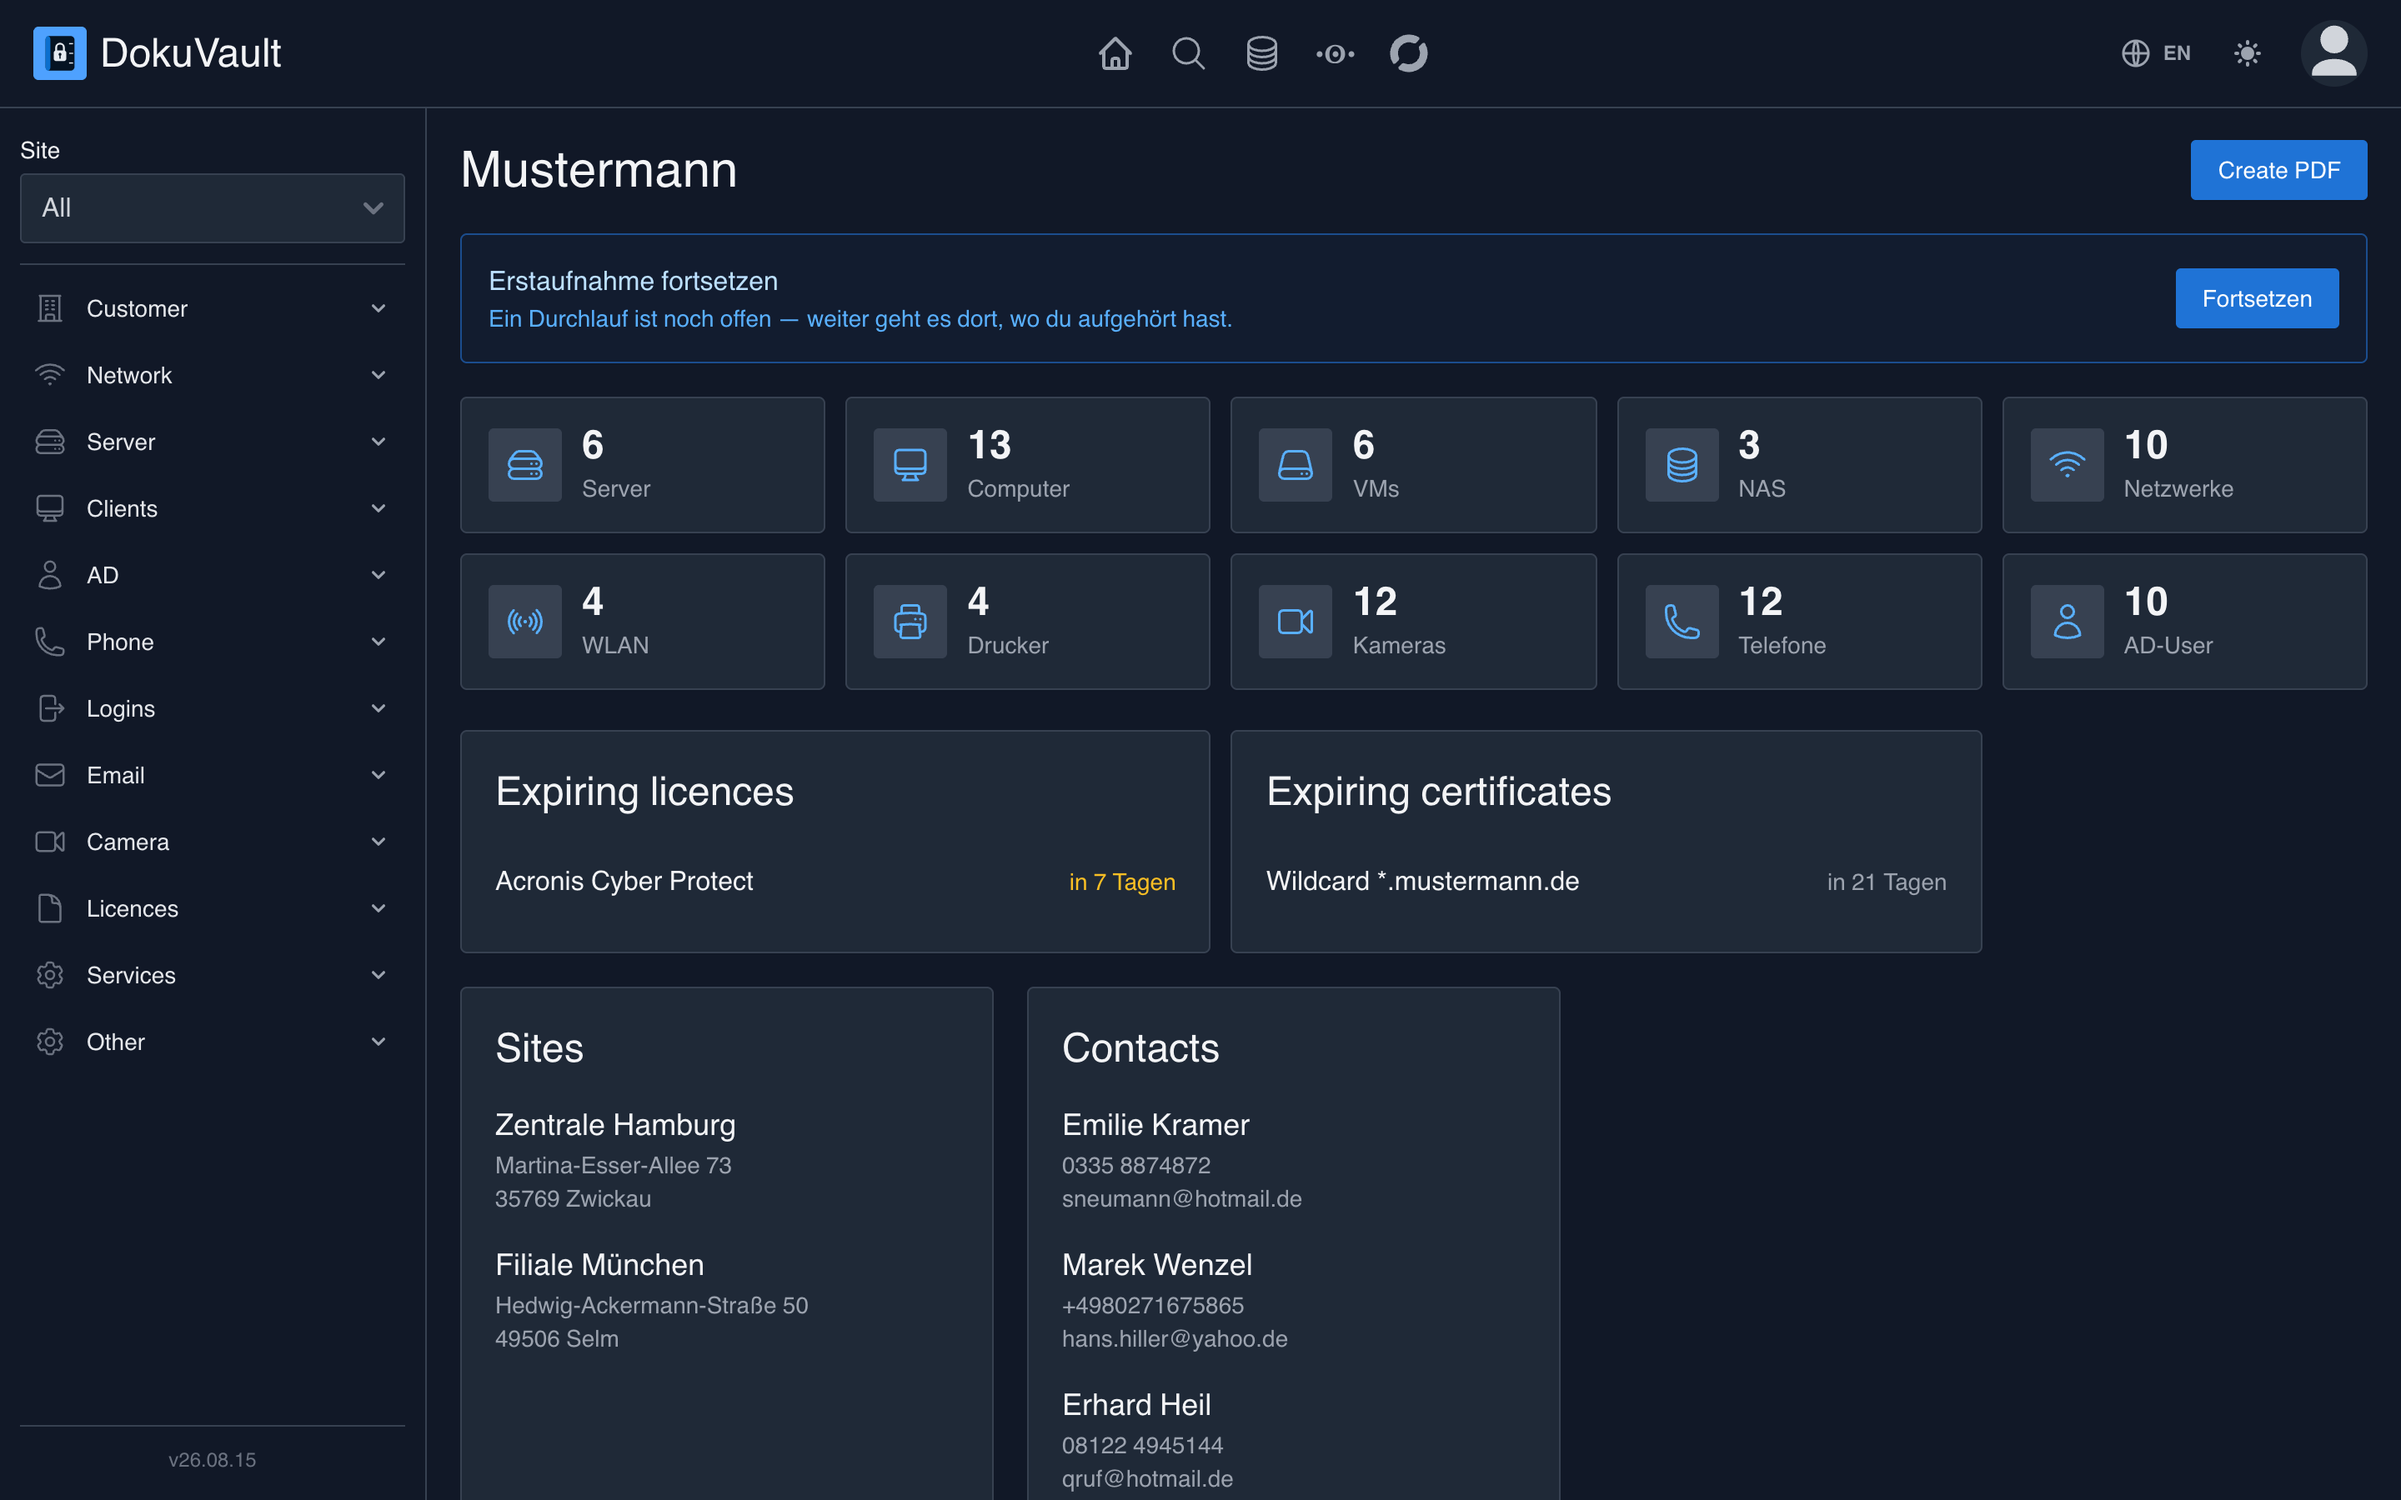
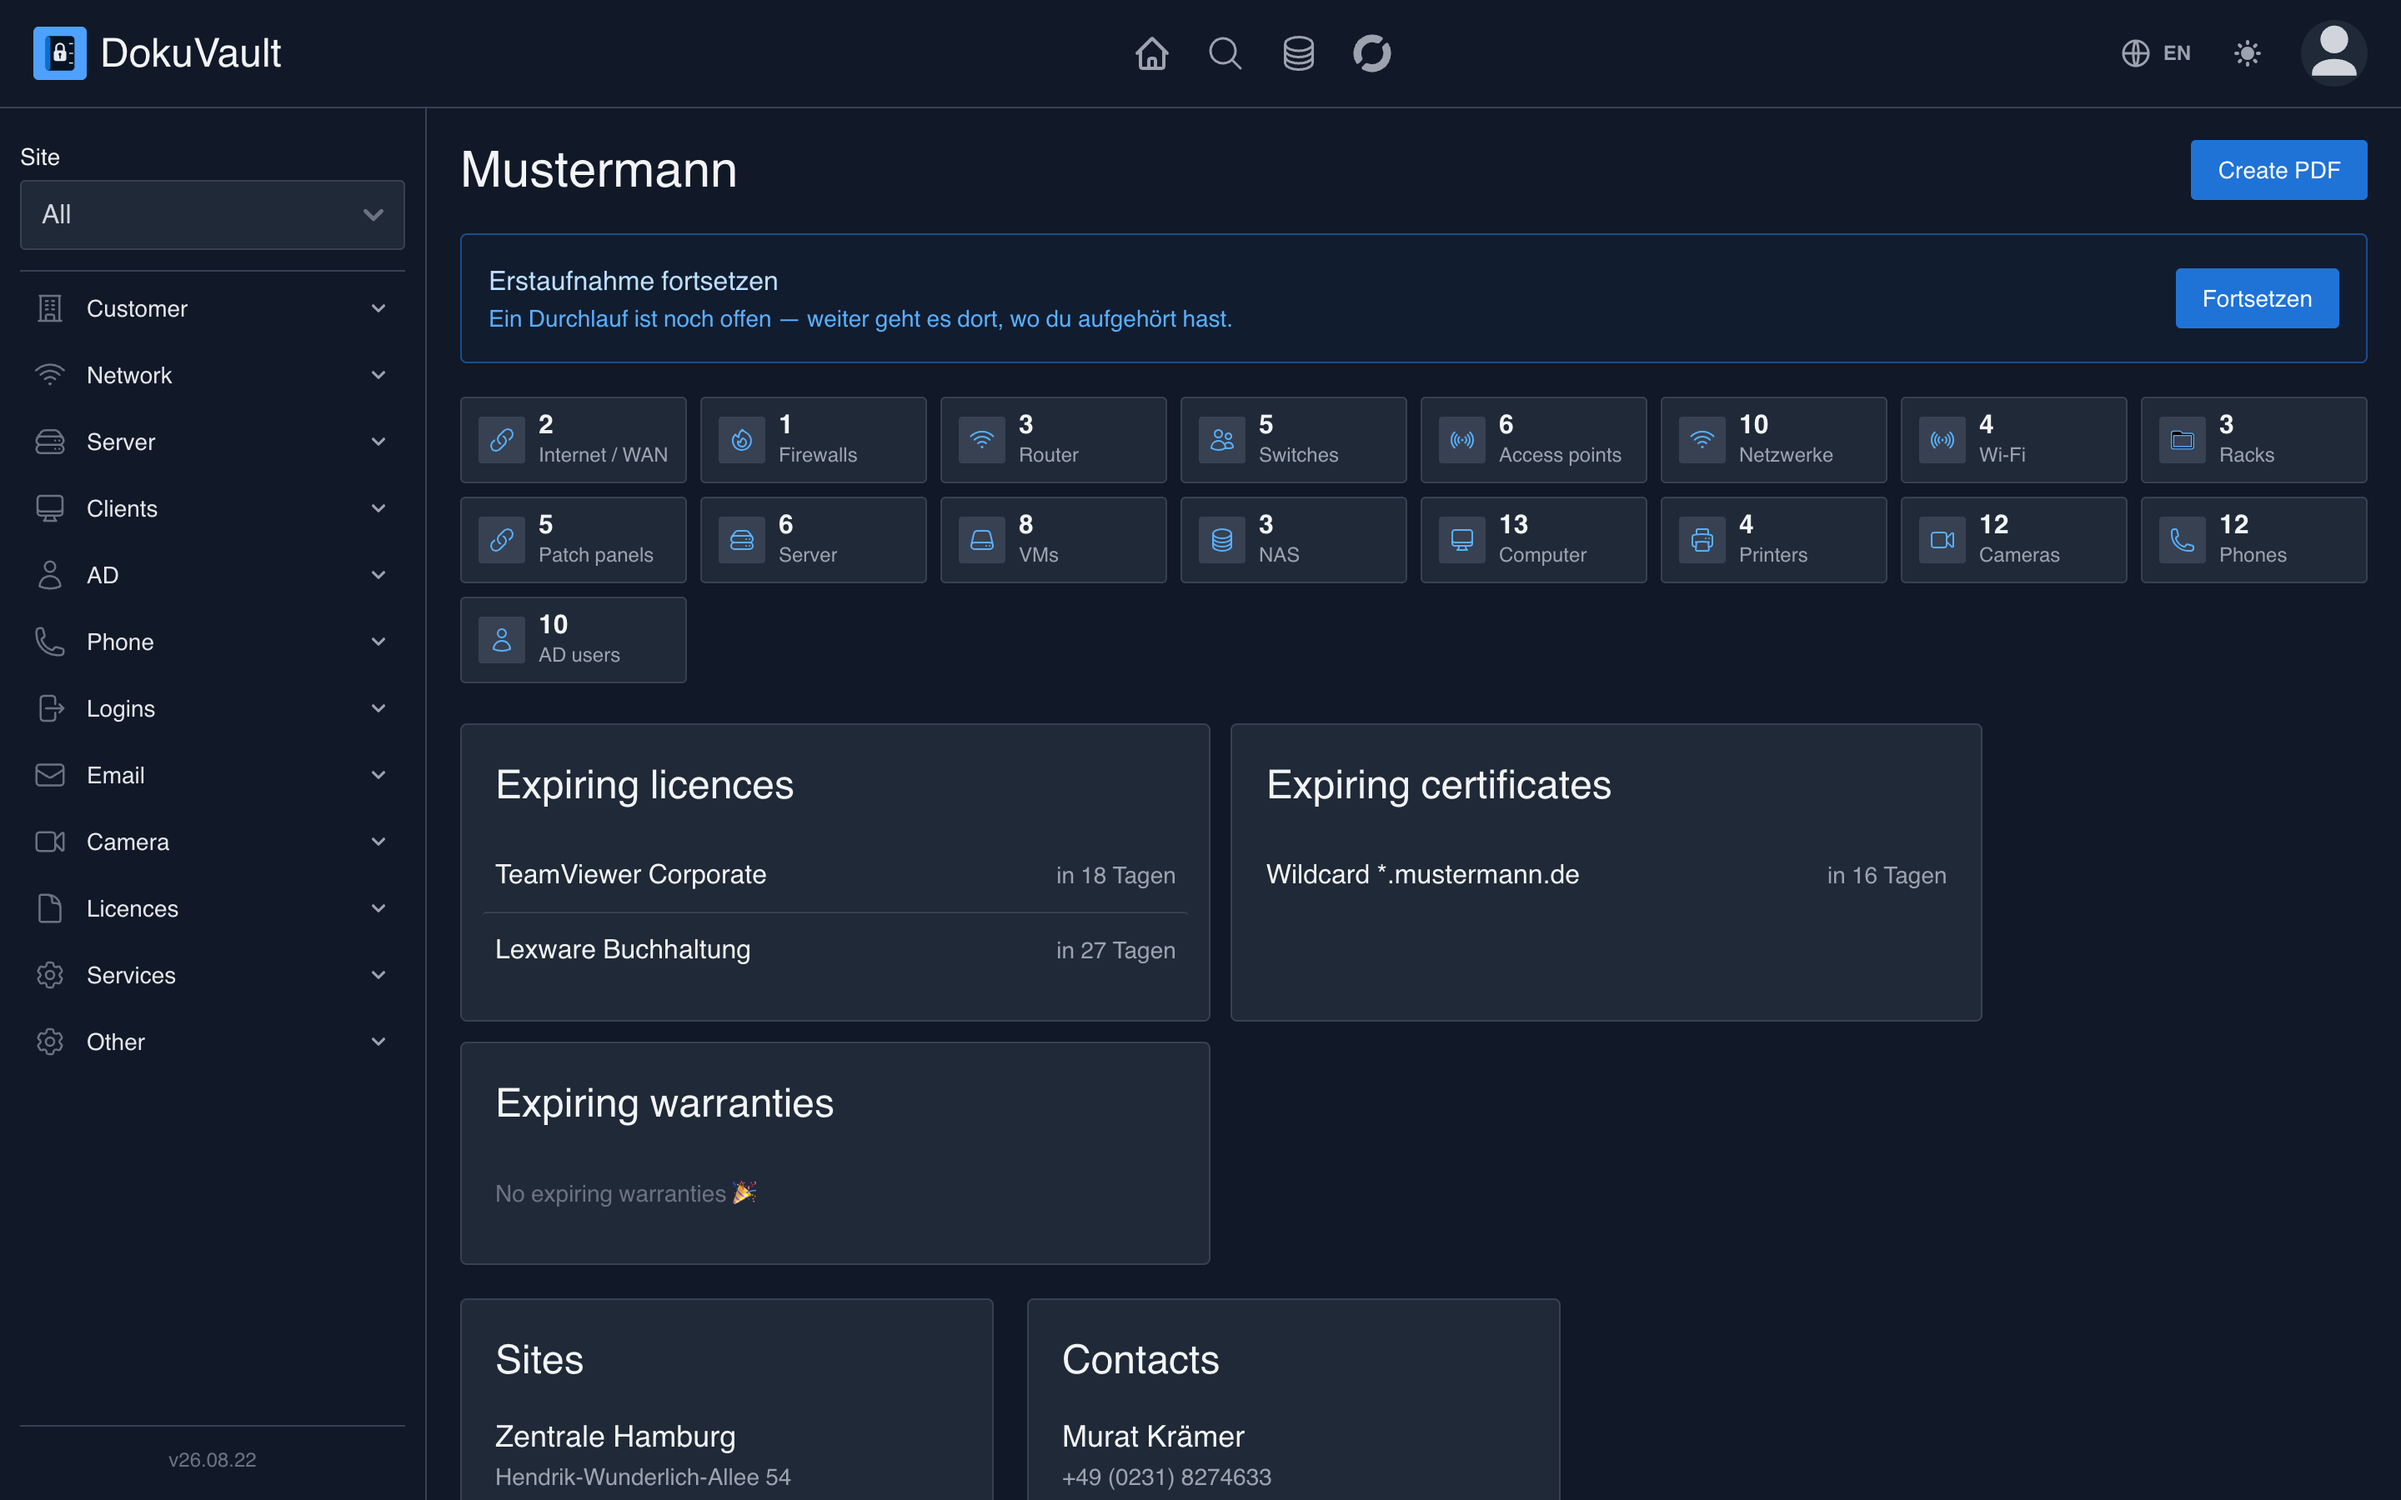
Screenshots aktualisiert, README-Zahlen und Rollentabelle nachgezogen
Das Screenshot-Skript (docs/screenshot-tool/capture.mjs) lag aus einer
frueheren Sitzung bereit, aber ungetestet. Zwei Fehler beim ersten Lauf:

Der Anmelden-Klick traf den falschen Knopf. page.click('button[type=submit]')
nahm den ersten Treffer im DOM - und das ist einer der versteckten
Sprachumschalter-Knoepfe (x-locale-switch), die vor dem Login-Formular im
Markup stehen, hinter "hidden" verborgen. Puppeteer meldete "Node is
either not clickable or not an Element". Auf das Anmeldeformular
eingegrenzt: form[action$="/login"] button[type=submit].

Der zweite Sprachdurchlauf fand kein Formular mehr. browser.newPage()
teilt sich Cookies mit allen Seiten desselben Browsers; der "de"-Lauf
blieb angemeldet, und /login leitet einen angemeldeten Benutzer ueber
die guest-Middleware weiter. Jetzt ein eigener isolierter Kontext je
Sprache (browser.createBrowserContext()).

Beim Durchsehen der Bilder ist ein Testrelikt aufgefallen: ein Server
namens "dsads" aus fruehem Debugging dieser Sitzung, sichtbar im
Rack-Editor-Screenshot. Weich geloescht (Papierkorb, wiederherstellbar),
danach alle 26 Bilder neu erzeugt - sonst waeren die Server-Zaehler auf
dem Dashboard und im Rack-Editor auseinandergelaufen (7 vs. 6).

Beim Lesen der README zwei veraltete Stellen gefunden und mit dem Nutzer
abgestimmt:

Die Testzahl stand auf 267, der aktuelle Lauf zeigt 609 - drei Stellen je
Sprachversion (Badge, Tabelle, Fliesstext).
[…]

diff --git a/README.md b/README.md
@@ -15,7 +15,7 @@ PDF export, global search across every customer, and devices that
 ![PHP](https://img.shields.io/badge/PHP-8.2+-777BB4?logo=php&logoColor=white)
 ![Laravel](https://img.shields.io/badge/Laravel-12-FF2D20?logo=laravel&logoColor=white)
 ![Livewire](https://img.shields.io/badge/Livewire-4-FB70A9)
-![Tests](https://img.shields.io/badge/Tests-267%20passing-3fb950)
+![Tests](https://img.shields.io/badge/Tests-609%20passing-3fb950)
 ![License](https://img.shields.io/badge/License-MIT-blue)
 
 **[▶ Try the live demo](https://doku.dokuvault.de)**
@@ -162,9 +162,16 @@ Every token may **only document** — a leaked one grants no further access. Mor
 - **Devices** — cameras, recorders, printers
 - **Services** — FTP, DynDNS, domains, backups
 - **Licences** — software, Windows and access licences including expiry dates & file upload
-- **Credentials** — encrypted logins, show and copy passwords
-- **Data capture** — initial survey wizard (16 guided steps), auto-documentation via agent
-- **Operations** — global search, audit log, recycle bin (restore), PDF export, file storage
+- **Credentials** — encrypted logins, show and copy passwords, previous password stays available
+  for a configurable retention period — for when someone changed it by mistake
+- **Data capture** — initial survey wizard (16 guided steps), auto-documentation via agent, agent
+  tokens managed on their own page (create, one-time reveal, revoke)
+- **Operations** — global search, searchable & filterable activity log (event, object type, user,
+  time range), recycle bin (restore, plus an admin-wide view across every customer), PDF export,
+  file storage
+- **Admin area** — permission-based, not role-hardcoded: customers, users & roles, dropdowns,
+  settings, recycle bin, activity log and API tokens are separate permissions, freely combinable
+  per role
 - **Site filter** — narrows device lists, IPAM and auto-documentation to a single site
 - **Language** — German and English, per user or following the browser
 
@@ -174,7 +181,9 @@ Every token may **only document** — a leaked one grants no further access. Mor
 
 - Passwords and sensitive fields **encrypted at rest** (`Crypt`)
 - **Role-based** access (admin / technician / customer) with granular permissions
-- **Audit log** of every change (without plain-text passwords)
+- **Audit log** of every change; a changed password never appears in the log itself — the previous
+  value lives encrypted in its own table, revealed only on click and only to those who can already
+  see the device
 - Protection against **IDOR** (foreign customer/site assignment), XSS hardening, encrypted sessions
 - Responsible disclosure via [SECURITY.md](SECURITY.md)
 
@@ -211,7 +220,7 @@ text reaches neither the database nor the audit log.
 | **Packages** | spatie/laravel-activitylog 4.12 *(audit log)* · barryvdh/laravel-dompdf 3.0 *(PDF export)* · spatie/laravel-backup 9.3 |
 | **Frontend** | Tailwind CSS 3.4 · Alpine.js 3 · Flowbite 1.8 · Vite 3 |
 | **Database** | MySQL / MariaDB |
-| **Quality** | Pest 3 *(267 tests)* · Laravel Pint · GitHub Actions CI |
+| **Quality** | Pest 3 *(609 tests)* · Laravel Pint · GitHub Actions CI |
 
 ---
 
@@ -292,8 +301,8 @@ hourly reset of a public demo are described in **[DEPLOYMENT.md](DEPLOYMENT.md)*
 
 | Role             | Permissions                                    |
 | ---------------- | ---------------------------------------------- |
-| **Admin**        | Change system settings, access to all customers |
-| **Technician**   | Access to all customers                         |
+| **Admin**        | Everything, always — a built-in override that can't be locked out by an unchecked box |
+| **Technician**   | Access to all customers; the admin area is available role by role — see below |
 | **Customer**     | Sees only their own data                        |
 
 The seeder creates four accounts — the same ones apply in the
@@ -302,10 +311,18 @@ sidebar, the “New” buttons and the admin area change with the role.
 
 | Username     | Password   | Role       | What it shows |
 | ------------ | ---------- | ---------- | ------------- |
-| `admin`      | `password` | Admin      | Everything: all customers, admin area (users, roles, rack catalogue), activity log |
-| `techniker`  | `password` | Technician | Create and edit all customers, but no admin area |
+| `admin`      | `password` | Admin      | Everything: all customers, the full admin area, activity log |
+| `techniker`  | `password` | Technician | All customers, plus the full admin area in the demo — see below |
 | `kunde-rw`   | `password` | Customer   | Only the customer “Mustermann”, read **and** write |
 | `kunde-r`    | `password` | Customer   | Only the customer “Mustermann”, read-only — no “New” or “Edit” buttons |
+
+The admin area is **permission-based, not role-hardcoded**: each of its sections — customers,
+users & roles, dropdowns, settings, recycle bin, activity log, API tokens — has its own permission,
+freely combinable per role in the role editor. A second technician group that may see the recycle
+bin and the activity log but not manage users is a checkbox away, not a code change. Only the
+built-in **Admin** role is special: it passes every permission check unconditionally, so removing
+“manage roles” from it by accident can never lock out the last administrator. In the demo, both
+`admin` and `techniker` have every permission checked, which is why they look identical there.
 
 > ⚠ **These accounts do not belong on a real server.** They come from the demo seeder and all share
 > the same password. For production, create your own users and delete the demo accounts.
@@ -314,7 +331,7 @@ sidebar, the “New” buttons and the admin area change with the role.
 
 ## 🧪 Tests
 
-267 feature tests (Pest 3) run against an in-memory SQLite — no setup needed, no traces in your
+609 feature tests (Pest 3) run against an in-memory SQLite — no setup needed, no traces in your
 development database. GitHub Actions runs the same suite on every push, against PHP 8.2 and 8.3 with
 SQLite and MariaDB.
 
